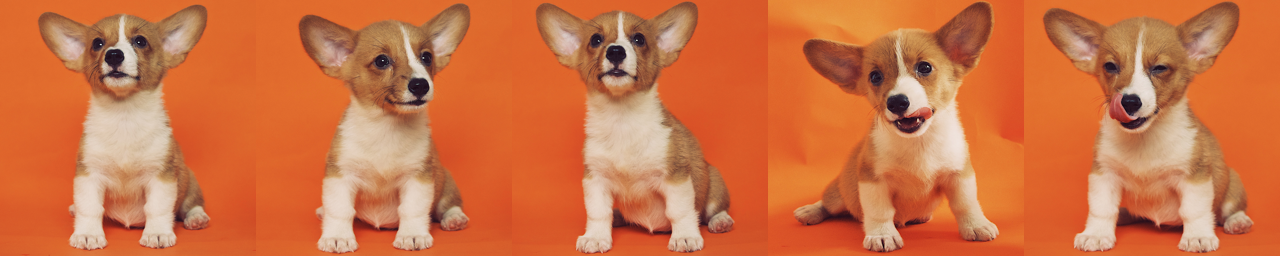
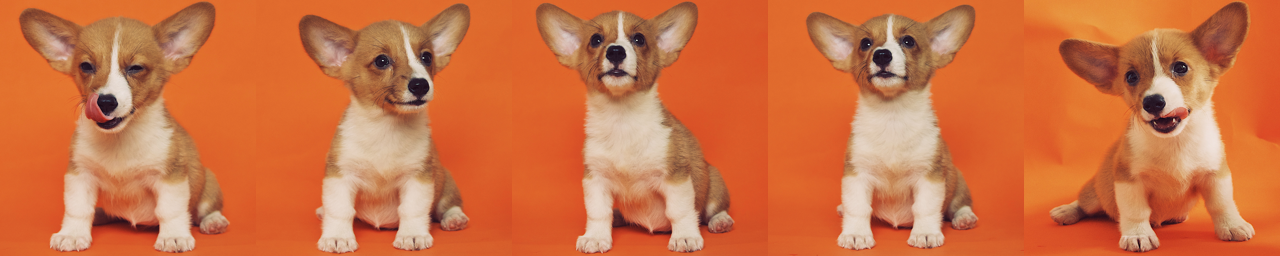
added logic for saving the model pipeline. hope it works

diff --git a/src/models/training/lora_training.py b/src/models/training/lora_training.py
@@ -150,7 +150,7 @@ def parse_args():
     parser.add_argument(
         "--caption_column",
         type=str,
-        default="text",
+        default="prompt",
         help="The column of the dataset containing a caption or a list of captions.",
     )
     parser.add_argument(
@@ -910,6 +910,18 @@ def main():
         else:
             unet = unet.to(torch.float32)
             unet.save_attn_procs(args.output_dir)
+
+            # saving the pipeline
+            model_pipeline = DiffusionPipeline.from_pretrained(
+                args.pretrained_model_name_or_path,
+                unet = accelerator.unwrap_model(model),
+                text_encoder = accelerator.unwrap_model(text_encoder),
+                revision = args.revision
+            )
+
+            model_pipeline.save_pretrained(args.output_dir)
+            del pipeline
+            torch.cuda.empty_cache()
 
         if args.push_to_hub:
             save_model_card(